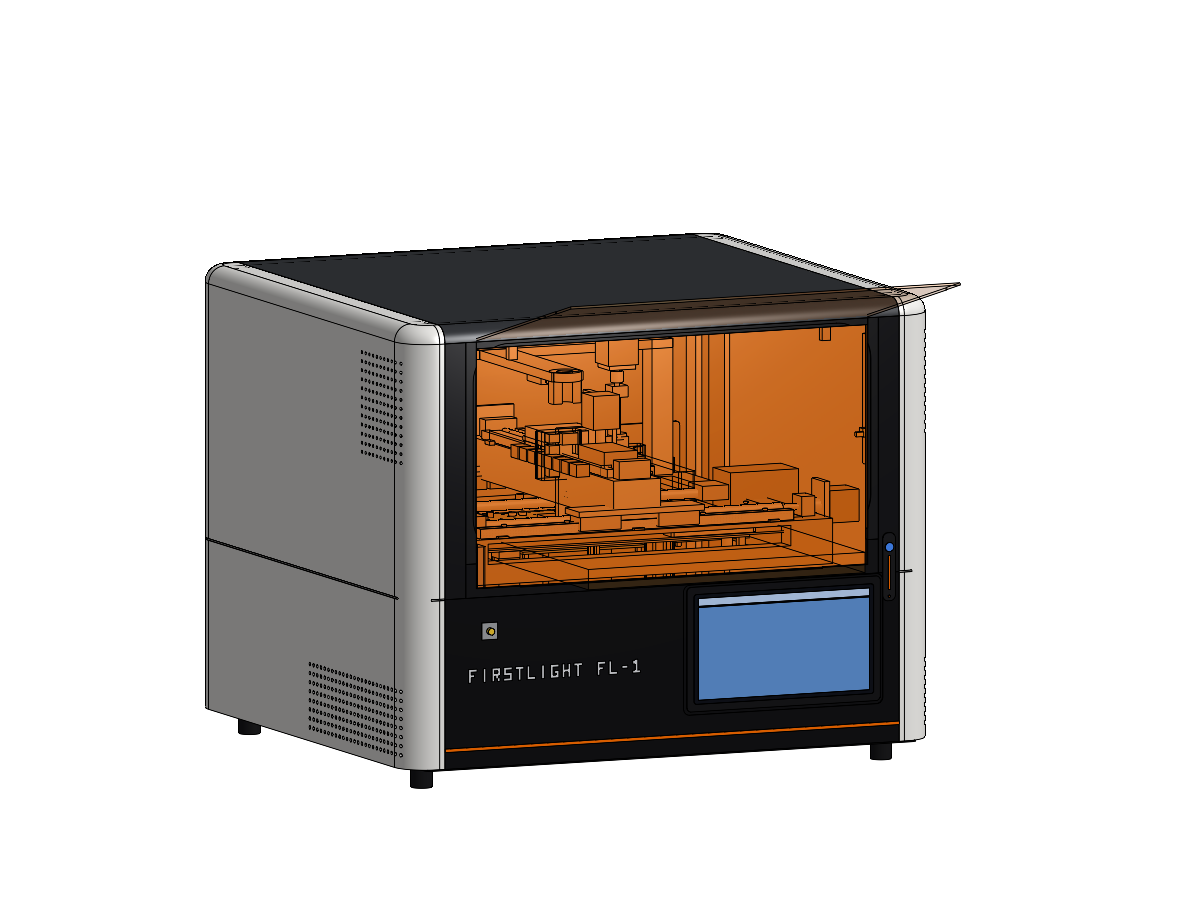
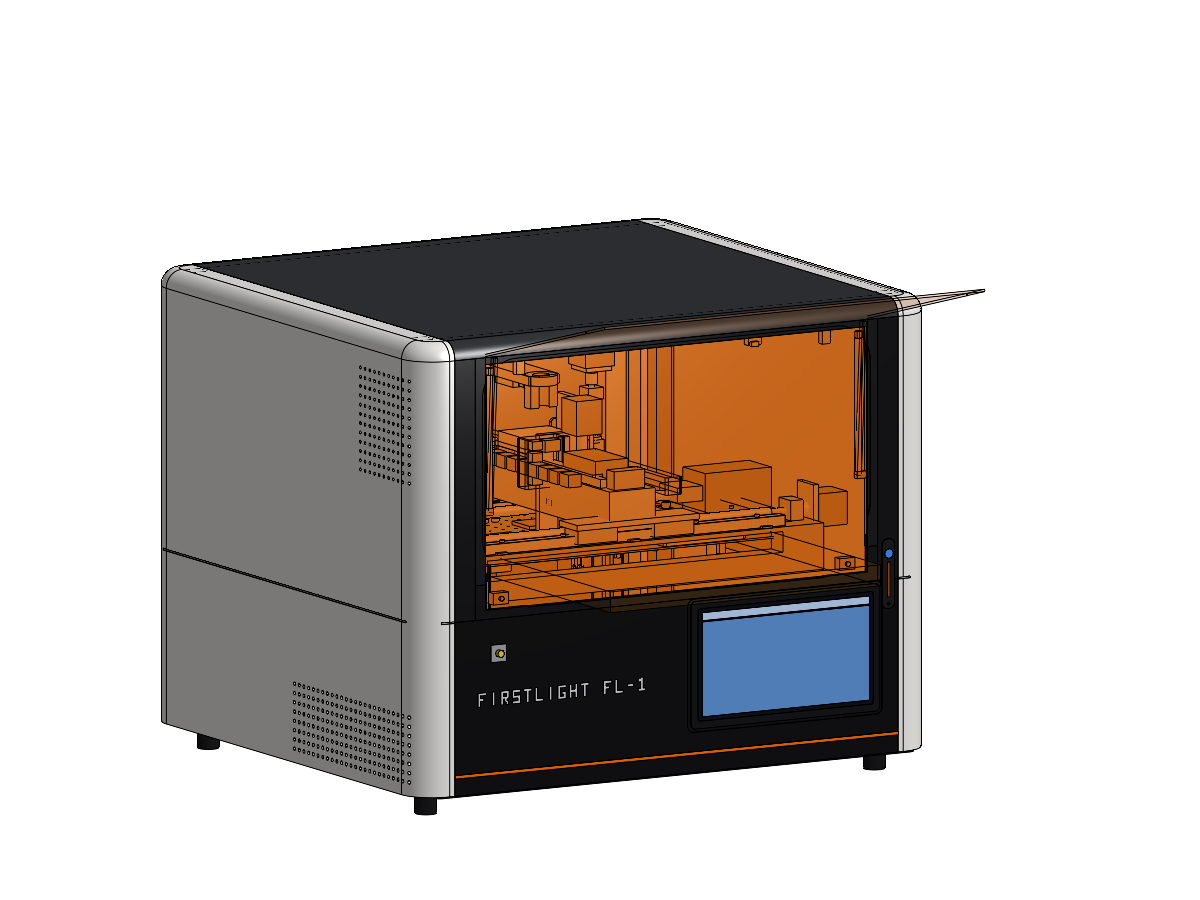
Add extended-strut ghosts connecting to the open door reference
User review catch: the ghost door at 105 deg showed no struts reaching
it - the real struts model the closed state (seated on the leaf with
anchors both ends), but the open-state reference set was incomplete.

- Analysis - Strut Extended L/R REF: ghost rods drawn along the exact
  lower-anchor-to-door-bracket line at 105 deg open (computed bracket
  landing: Y -468, Z 452; strut extends 230 -> 268mm, correct
  gas-spring travel), built as slanted Right-plane profiles so the
  geometry is exact, ending on the ghost leaf plane.
- Ghosted, BOM-excluded, audit-exempt; hide/show together with the
  door open REF.

Changed region(s): [[0.1233, 0.2178, 0.8325, 0.9022]]

diff --git a/cad/electronics-bringup-station/production-readiness-report.md b/cad/electronics-bringup-station/production-readiness-report.md
@@ -323,6 +323,17 @@ floating stand-ins. Fixed:
   door TOP edge (sensor bracket under the glass frame top, target on
   the leaf below it) — overlap scan clean.
 
+### 3m addendum: open-state strut ghosts
+
+The open-position reference set was incomplete — the ghost door at 105°
+had no struts reaching it (the real struts model the CLOSED state, where
+they correctly seat against the leaf with anchors at both ends). Added
+**Analysis - Strut Extended L/R REF**: ghost rods drawn along the exact
+anchor-to-bracket line at 105° open (Y −468, Z 452 — strut extends
+230→268 mm, correct gas-spring behavior), ending on the ghost leaf.
+Hide/show together with the door REF. All three ghosts are
+BOM-excluded, audit-exempt Analysis bodies.
+
 ## 4. Remaining work to true production (not CAD-scriptable, tracked)
 
 1. ~~Motion Check assembly~~ **DONE (same session)**: all 14 bodies
